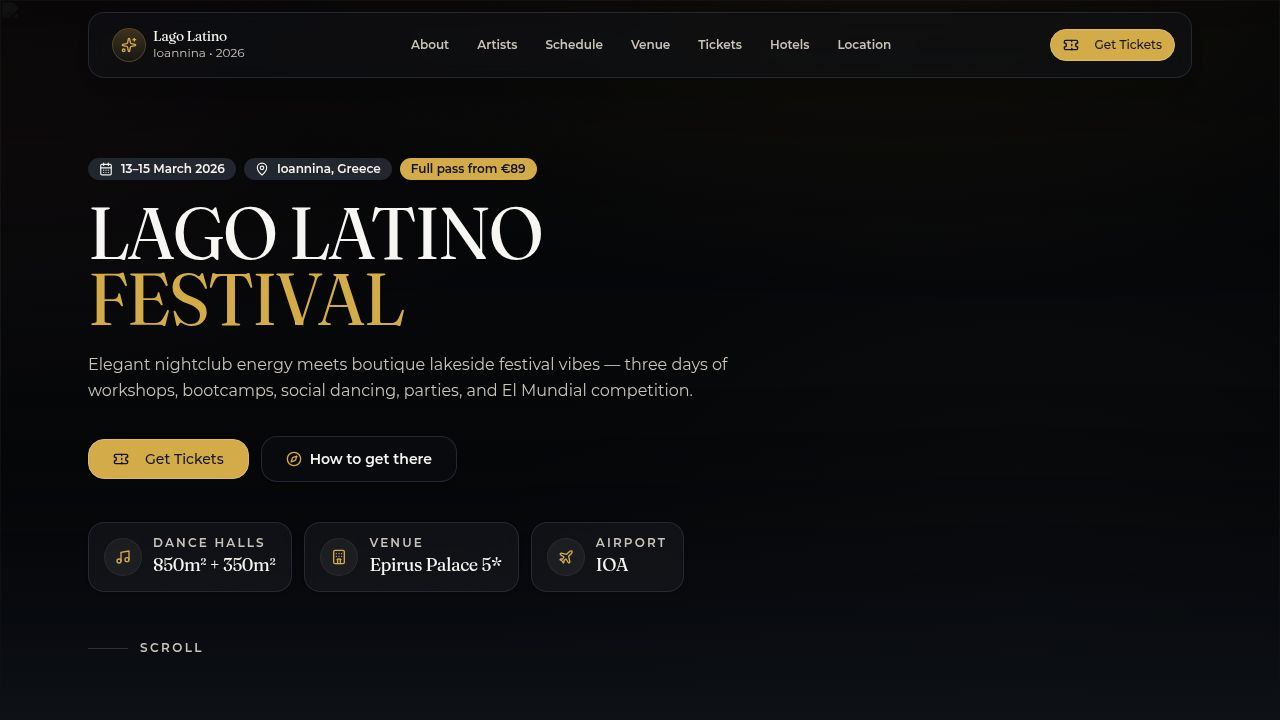
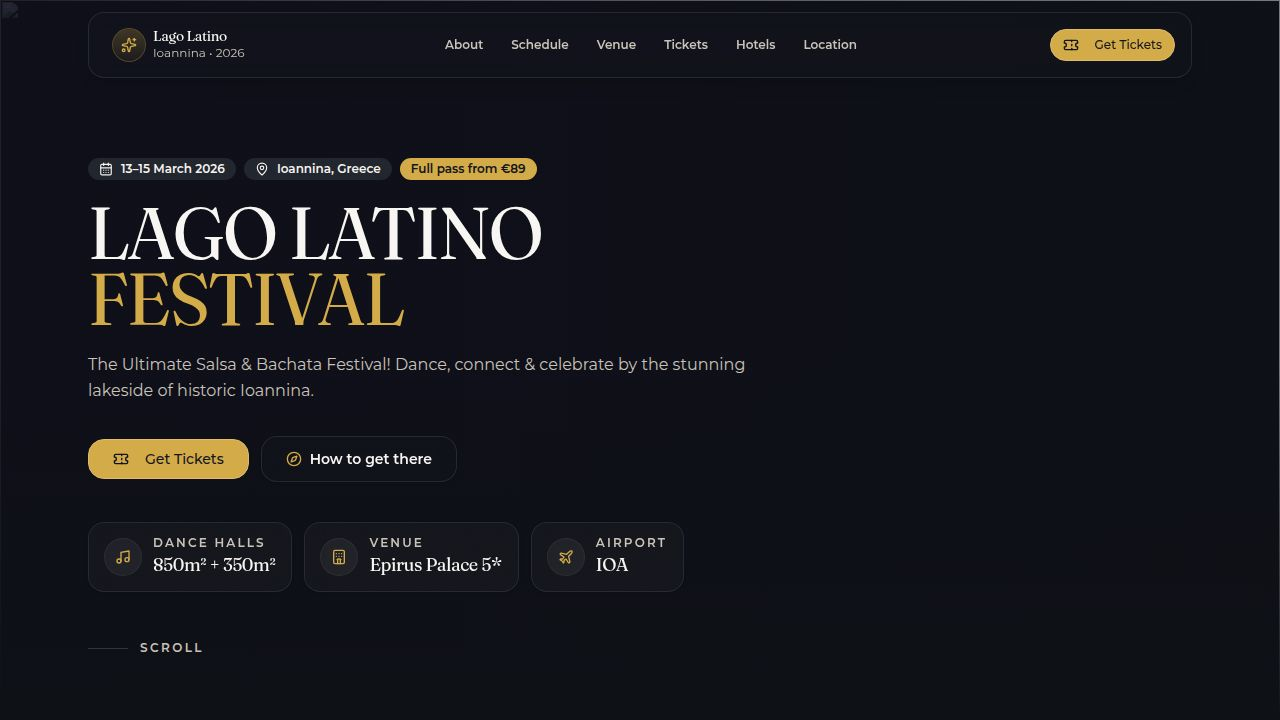
Update hero background image and adjust component styling
Updates the `PosterBackdrop` component in `festival-landing.tsx` to use the new hero background image `attached_assets/poster-up-nobg.jpg`.

Replit-Commit-Author: Agent
Replit-Commit-Session-Id: eb16d0e4-4f40-4dd9-94c1-d7bd7b165bd0
Replit-Commit-Checkpoint-Type: full_checkpoint
Replit-Commit-Event-Id: d63eb872-f2aa-407f-9f6b-9a23df81d4e3
Replit-Commit-Screenshot-Url: https://storage.googleapis.com/screenshot-production-us-central1/3358cab2-90d2-40ed-b9b0-4961c90f6ccb/eb16d0e4-4f40-4dd9-94c1-d7bd7b165bd0/US6BREH
Replit-Helium-Checkpoint-Created: true

diff --git a/client/src/pages/festival-landing.tsx b/client/src/pages/festival-landing.tsx
@@ -181,7 +181,7 @@ function PosterBackdrop() {
   return (
     <div aria-hidden className="absolute inset-0 overflow-hidden group">
       <img
-        src={"/../attached_assets/download_1770192913812.webp"}
+        src={"/../attached_assets/poster-up-nobg.jpg"}
         alt=""
         className="absolute inset-0 h-full w-full object-cover object-top transition-transform duration-700 ease-out group-hover:scale-[1.02]"
       />
